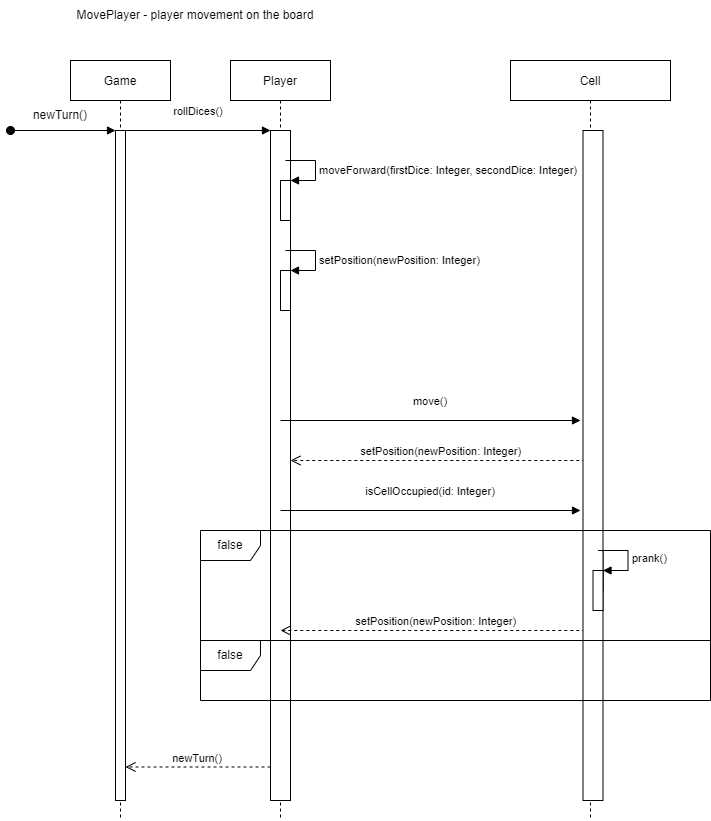
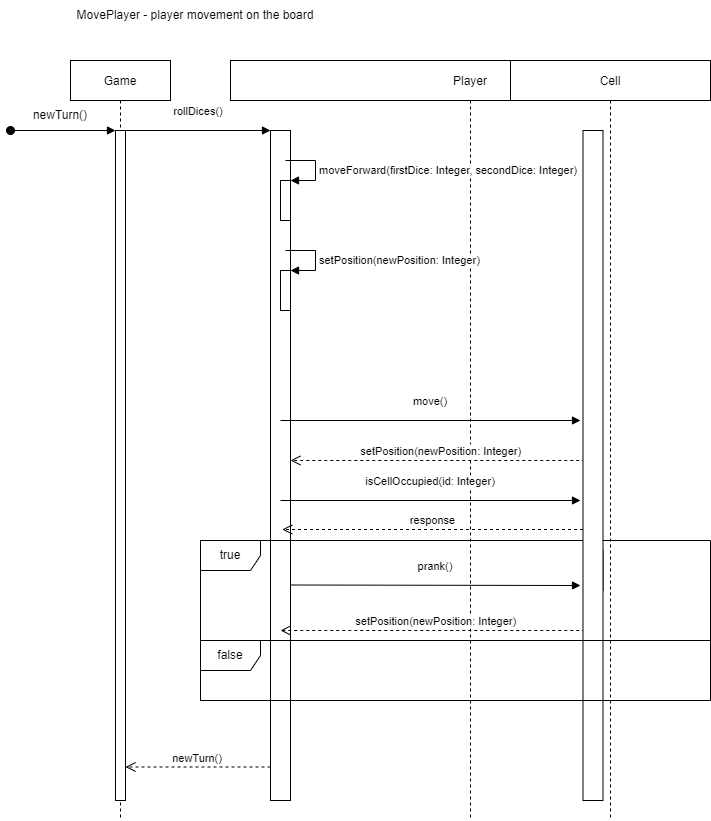
Updated movePlayer Sequence Diagram

diff --git a/src/test/java/org/thegoosegame/game/GameTest.java b/src/test/java/org/thegoosegame/game/GameTest.java
@@ -1,0 +1,72 @@
+package org.thegoosegame.game;
+
+import org.junit.jupiter.api.Test;
+
+import static org.junit.jupiter.api.Assertions.*;
+
+class GameTest {
+
+    @Test
+    void newTurnTest() {
+        boolean isEnded;
+        Player player = new Player("Pippo");
+
+        assertTrue(isEnded == false);
+    }
+
+    @Test
+    void createPlayerTest() {
+    }
+
+    @Test
+    void listPlayersTest() {
+    }
+
+    @Test
+    void playerCheckTest() {
+    }
+
+    @Test
+    void initializeBoardTest() {
+    }
+
+    @Test
+    void addPlayerTest() {
+    }
+
+    @Test
+    void getCellOccupantsTest() {
+    }
+
+    @Test
+    void getPlayersTest() {
+    }
+
+    @Test
+    void setPlayersTest() {
+    }
+
+    @Test
+    void getCellsTest() {
+    }
+
+    @Test
+    void setCellsTest() {
+    }
+
+    @Test
+    void isEndedTest() {
+    }
+
+    @Test
+    void setEndedTest() {
+    }
+
+    @Test
+    void getWinnerTest() {
+    }
+
+    @Test
+    void setWinnerTest() {
+    }
+}
